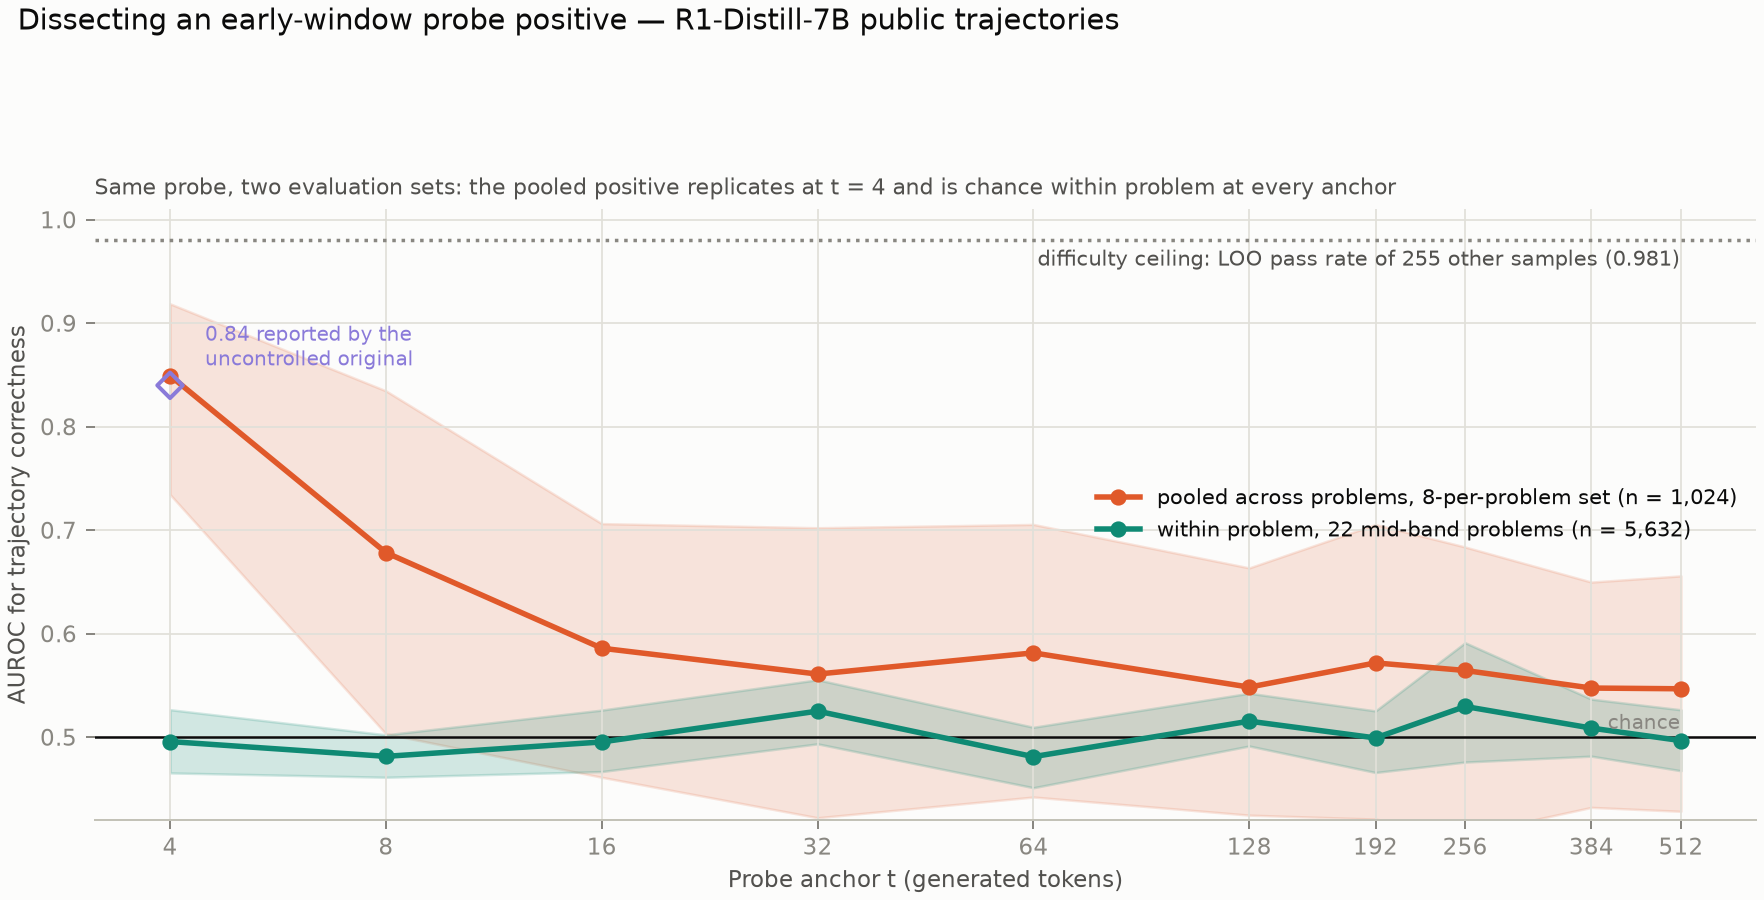
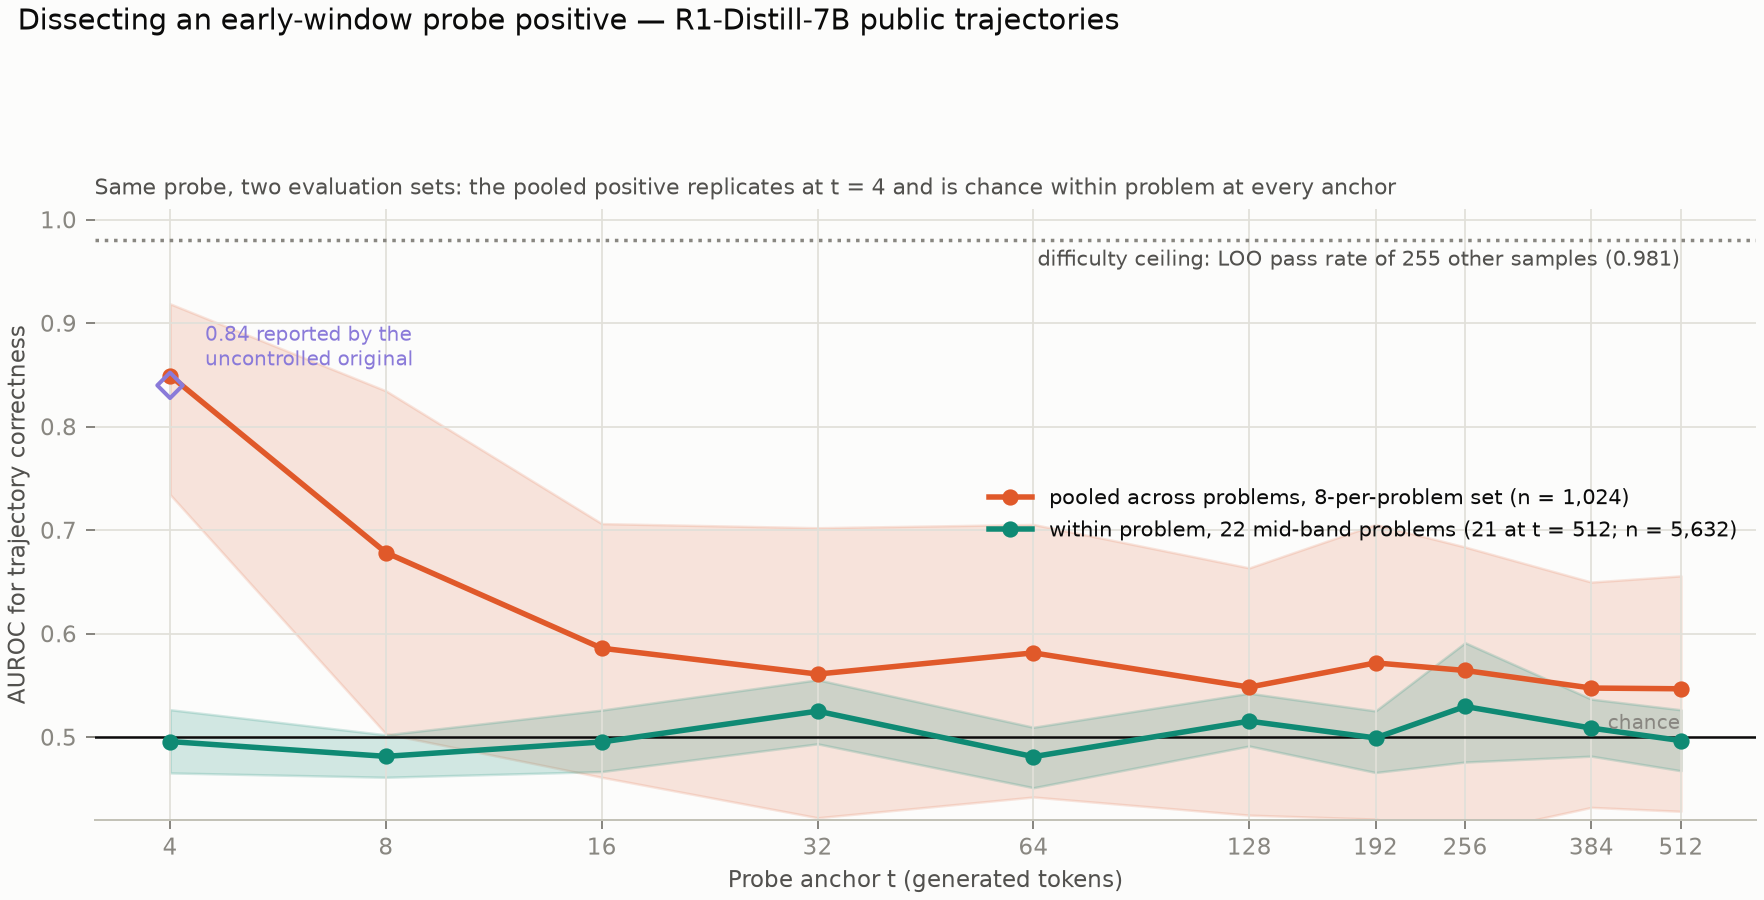
Sync third audit round: calibrated compression claim, pre-registered/post-hoc separation, completed trace-blind renaming, weighted-mean CI scoping, t=512 attrition disclosure, conditioned conservativeness claims, corrected matched-compute count in related work, refreshed claims table and docstring

Changed region(s): [[0.5612, 0.5289, 0.9977, 0.6222]]

diff --git a/paper/sections/results_prediction.tex b/paper/sections/results_prediction.tex
@@ -32,8 +32,9 @@ remained below its power gate (four test-split interior events) and was
 not fit. A post-hoc sweep of the forecast point over
 $t \in \{128, 256, 1{,}024, 2{,}048\}$ --- labeled post-hoc in the
 amendment --- found 8 of 10 point estimates negative and every CI
-straddling zero (Figure~\ref{fig:sweep}): the absence of detected gain is
-not an artifact of the chosen window. These are absences of detected gain,
+straddling zero (Figure~\ref{fig:sweep}): no alternative window rescues
+the signals, though these post-hoc intervals are individually
+underpowered. These are absences of detected gain,
 not demonstrations of equivalence --- the primary CI's upper bound
 ($+0.167$) does not exclude moderate effects, and no equivalence margin
 was pre-registered anywhere; what tighter intervals can support is an
@@ -114,7 +115,7 @@ pass rate of the problem's \emph{other} attempts, for 92\% of problems a
 single binary observation, reading neither the trace nor the question ---
 achieves AUROC $0.873$ $[0.870, 0.876]$
 (problem-clustered bootstrap; estimator frozen before evaluation, and
-conservative by construction since dataset curation truncates the
+likely conservative, since dataset curation truncates the
 difficulty range). That places a predictor that never reads the trace
 squarely inside the $0.79$--$0.95$ range that internal-state probe papers report
 \citep{zhang2025knowright, yuan2026diagnostic, sun2026trajectories,
@@ -125,7 +126,8 @@ question-text features but never probes the reasoning window). Nor is the ceilin
 artifact: on 16{,}384 public GPQA-diamond \citep{rein2023gpqa} samples (64 questions $\times$
 256 attempts, Llama-3.3-70B \citep{singhi2025solveverify}), the same
 estimator reaches $0.917$ $[0.875, 0.938]$ --- despite a four-way
-multiple-choice guessing floor that attenuates, never inflates, it.
+multiple-choice guessing floor that, under independent uniform guessing,
+attenuates rather than inflates it.
 
 \begin{figure}[t]\centering
 \includegraphics[width=.9\linewidth]{difficulty_ceiling_openr1}
@@ -157,10 +159,12 @@ pre-registered failure-count weighting (Appendix~\ref{app:extra}) ---
 sits at $0.496$ $[0.466, 0.527]$ under the pre-registered
 failure-count weighting and $0.515$ $[0.481, 0.562]$ under exact
 discordant-pair weighting --- chance under both --- and remains at chance
-at every one of ten anchors from $t = 4$ to $512$
-(Figure~\ref{fig:dissect}); the upper confidence limits bound any
-within-attempt AUROC signal at $t = 4$ by $0.527$ (failure-weighted) and
-$0.562$ (pair-weighted). The pooled positive is therefore predominantly
+at every one of ten anchors from $t = 4$ to $512$ (length attrition
+leaves 21 of the 22 problems with both outcome classes at $t = 512$;
+Figure~\ref{fig:dissect}); the upper confidence limits cap the
+failure-weighted and pair-weighted \emph{mean} within-problem AUROC at
+$t = 4$ at $0.527$ and $0.562$ --- bounds on these weighted-mean
+estimands, not on any single problem. The pooled positive is therefore predominantly
 --- and possibly entirely --- between-problem information, far below the
 dump's full leave-one-out difficulty ceiling of $0.981$ (pass rate of the
 255 other attempts per problem). Moreover, with sample composition held fixed, the pooled AUROC

diff --git a/paper/sections/intro.tex b/paper/sections/intro.tex
@@ -51,24 +51,27 @@ rules were frozen contributed zero new cases
 \item \textbf{Restart dose--response separates failure modes.} One model's
 unsolved problems dissolve as budget grows ($0\%\to79\%$,
 compute-starved); the other's do not budge (capability-limited).
-\item \textbf{Accumulated reasoning is compute compression.} At matched
-total compute the model's own prefix beats restarting wherever the
-comparison is exactly matched (9/9, with 2 wins and 2 ties on boundary
-proxies), yet a larger restart budget reaches the same threshold in 11/13
-and the prefix's own rate in 9/13: long reasoning reaches the same places
-cheaper, not new places.
+\item \textbf{Accumulated reasoning is predominantly compute
+compression.} At matched total compute the model's own prefix beats
+restarting wherever the comparison is exactly matched (9/9, with 2 wins
+and 2 ties on boundary proxies), yet a larger restart budget reaches the
+same threshold in 11/13 and the prefix's own rate in 9/13: within the
+measured budget range, long reasoning mostly buys the same successes
+cheaper rather than reaching otherwise unreachable ones.
 \item \textbf{Solvability is not binary.} A third of ambiguous
 intermediate states remain intermediate after eight attempts (success
 $0.3$--$0.6$), a band reproduced in the independent second half of
 attempts.
 \item \textbf{Early internal signals carry no detectable outcome
-information beyond difficulty.} A pre-registered, single-shot test on a held-out split finds
-$\Delta$AUROC $\approx 0$ at every forecast window
-(Section~\ref{sec:results-prediction}); on public data, a question-only
-signal reaches 0.873 on 192K DeepSeek-R1 generations --- inside the
-published probe range --- and the closest published early-window positive
-replicates at $t{=}4$ (pooled 0.849) while sitting exactly at chance
-(0.496) within problem, at every anchor.
+information beyond difficulty.} A pre-registered, single-shot test on a
+held-out split finds no detectable gain at the frozen forecast point, and
+a labeled post-hoc sweep finds none at any window from 128 to 2,048
+tokens (Section~\ref{sec:results-prediction}); on public data, a
+trace-blind difficulty proxy reaches 0.873 on 192K DeepSeek-R1
+generations --- inside the published probe range --- and the closest
+published early-window positive replicates at $t{=}4$ (pooled 0.849)
+while statistically indistinguishable from chance (0.496) within problem
+at every anchor.
 \end{itemize}
 
 The claims are scoped deliberately. We study two small open-weight models

diff --git a/paper/main.tex b/paper/main.tex
@@ -51,16 +51,18 @@ curves cleanly separate failure modes --- one model is compute-starved
 continuing the model's own prefix beats restarting (9 of 9 late-crossing
 cells; 2 wins and 2 ties on four boundary proxies), yet an 8{,}192-token
 restart reaches the same threshold in 11/13 and the prefix's own success
-rate in 9/13 --- accumulated reasoning acts as \emph{compute
-compression}, not expanded reachability; (iv) roughly a third of ambiguous
+rate in 9/13 --- predominantly consistent with accumulated reasoning
+acting as \emph{compute compression} rather than expanded reachability,
+within the measured budget range; (iv) roughly a third of ambiguous
 intermediate states remain intermediate after eight attempts (success
 rates 0.3--0.6), a band the independent second half of attempts
 reproduces; and (v) in a pre-registered, single-shot evaluation on
 a held-out test split, early-window internal signals (entropy, successive
 divergences, hidden-state geometry) add no detectable outcome information
-beyond a problem-difficulty baseline, at every forecast point from 128 to
-2,048 tokens --- a control that the growing literature of probe-based
-positives lacks. Two generation-free analyses of public corpora show the
+beyond a problem-difficulty baseline --- with a labeled post-hoc sweep
+finding no alternative forecast point from 128 to 2,048 tokens whose
+interval excludes zero --- a control that the growing literature of
+probe-based positives lacks. Two generation-free analyses of public corpora show the
 control bites in that literature's own regime: on 192K DeepSeek-R1
 generations a trace-blind difficulty proxy (the leave-one-out pass rate of
 the problem's other attempts) reaches AUROC 0.873, inside the published

diff --git a/paper/sections/results_regimes.tex b/paper/sections/results_regimes.tex
@@ -57,7 +57,7 @@ Individual curves (left) and share solved from scratch (right):
 Ministral-3 climbs $0\%\to79\%$; Gemma-4 stays flat.}
 \label{fig:dose}\end{figure}
 
-\subsection{Accumulated reasoning is compute compression}
+\subsection{Accumulated reasoning is predominantly compute compression}
 
 The 13 threshold-censored Ministral-3 expansion cells --- trajectories
 whose crossing was replicated only at the final anchor --- allow the
@@ -71,9 +71,13 @@ unknown --- restart curves are not uniformly monotone --- and on these
 proxies the prefix wins two and ties two. The largest measured restart
 reaches $\tauthr$ in 11 of 13 cells and matches the prefix's own pooled
 success rate in 9 of 13.
-Accumulated reasoning therefore acts as \emph{compression} --- it reaches
-the same solutions with fewer total tokens --- rather than as expanded
-reachability. This instantiates, empirically and per problem, the no-benefit branch of
+Accumulated reasoning is therefore predominantly consistent with
+\emph{compression} --- reaching the same success threshold with fewer
+total tokens --- rather than with expanded reachability, within the
+measured budget range: in the two cells where no measured restart reaches
+$\tauthr$ the question stays open at larger budgets, and binary
+correctness compares success rates, not solution content. This
+instantiates, empirically and per problem, the no-benefit branch of
 the dichotomy of \citet{wolf2026theory} --- absent self-reflection that
 reliably localizes early errors, conditioning on past attempts offers no
 asymptotic benefit over independent restarts (their analysis concerns

diff --git a/paper/sections/discussion.tex b/paper/sections/discussion.tex
@@ -6,14 +6,15 @@ prefix-limited cell is an existence proof --- but that it is rare enough
 in this regime that any account of reasoning built on frequent
 within-trace unlocks is measuring budget fit. The practical corollary of
 the compression finding is a reframing of restart policies: for a
-compute-starved model, abandoning a long prefix costs roughly a budget
-multiple, not access to the solution; for a capability-limited model,
+compute-starved model, abandoning a long prefix typically costs a budget
+multiple rather than access to the solution; for a capability-limited model,
 neither continuation nor restart helps. Which regime a deployment faces is
 measurable with a four-point restart curve.
 
 \paragraph{What the prediction results do and do not show.}
-Three layers --- a pre-registered null on our cohort, a question-only
-ceiling inside the published range on 192K public R1 generations, and a
+Three layers --- a pre-registered null on our cohort, a trace-blind
+difficulty ceiling inside the published range on 192K public R1
+generations, and a
 replicate-then-dissect analysis at 256 samples per problem --- support one
 conclusion: pooled probe AUROCs on reasoning outcomes are difficulty
 measurements until shown otherwise. This does not overturn any specific

diff --git a/paper/sections/related_work.tex b/paper/sections/related_work.tex
@@ -77,9 +77,10 @@ level and condition on \emph{completed} answers. Our instrument moves the
 comparison inside the trajectory --- the model's own truncated prefix
 against a fresh start at matched total tokens, per problem --- and yields a
 quantity the aggregate view cannot express: a prefix's value in fresh-token
-units. The answer, for our models, is compression rather than reachability
-(prefix wins 11/13 at equal compute; an 8{,}192-token restart catches up in
-11/13), which is empirical evidence for the no-benefit branch of the dichotomy of
+units. The answer, for our models, is predominantly compression rather than
+reachability (the prefix wins all nine exactly-matched comparisons, with
+two wins and two ties on boundary proxies; an 8{,}192-token restart
+reaches threshold in 11/13), which is empirical evidence for the no-benefit branch of the dichotomy of
 \citet{wolf2026theory}: when self-reflection fails to reliably localize
 early errors, conditioning on past attempts offers no asymptotic benefit
 over independent restarts. Our per-problem restart dose--response curves also

diff --git a/scripts/analyze_math128_probe.py b/scripts/analyze_math128_probe.py
@@ -6,7 +6,10 @@ Endpoints per anchor t: pooled AUROC on held-out problems (literature's
 metric, on the 8-per-problem pooled set) and within-problem AUROC on
 held-out mid-band problems (per-problem AUROC over its samples,
 failure-count-weighted), both from problem-disjoint 5-fold OOF predictions.
-Reference: the LOO pass-rate baseline (within-problem 0.5 by construction).
+Reference: the LOO pass-rate baseline (pooled high; its within-problem
+AUROC is mechanically 0, since within a problem every incorrect attempt's
+LOO score exceeds every correct one's --- 0.5 remains the neutral
+no-signal reference).
 
 Deviation recorded here: the stored streams support only the
 predictive-ambiguity/dynamics summary subset (entropy, surprisal, top-1);

diff --git a/paper/sections/appendix_extra.tex b/paper/sections/appendix_extra.tex
@@ -159,7 +159,8 @@ anchor. The rows column counts trajectories entering the problem-disjoint
 out-of-fold prediction; the \emph{pooled} metric is evaluated on the
 8-per-problem pooled subset ($n{=}1{,}024$ at $t{=}4$, shrinking with
 window attrition) and the \emph{within} metrics on the 22 mid-band
-problems ($n{=}5{,}632$; 2{,}178 failures), under the pre-registered
+problems ($n{=}5{,}632$; 2{,}178 failures; at $t{=}512$ attrition leaves
+21 problems with both outcome classes and 2{,}114 failures), under the pre-registered
 failure-count weighting and the exact discordant-pair weighting of
 Eq.~\eqref{eq:decomp}. References at $t{=}4$: full-dump LOO pass-rate
 pooled AUROC 0.981 (255 other attempts per problem); stream-summary probe

diff --git a/scripts/render_paper_figures.py b/scripts/render_paper_figures.py
@@ -387,7 +387,7 @@ def fig_dissection(report_path: Path, out: Path) -> None:
             label="pooled across problems, 8-per-problem set (n = 1,024)")
     ax.fill_between(ts, w_lo, w_hi, color="#0f8a74", alpha=0.18)
     ax.plot(ts, within, "-o", color="#0f8a74", lw=2.2, ms=5.5,
-            label="within problem, 22 mid-band problems (n = 5,632)")
+            label="within problem, 22 mid-band problems (21 at t = 512; n = 5,632)")
     ax.scatter([4], [0.84], marker="D", s=52, facecolor="none",
                edgecolor="#8a7ad9", linewidths=1.6, zorder=5)
     ax.annotate("0.84 reported by the\nuncontrolled original", (4, 0.84),

diff --git a/paper/claims_evidence.md b/paper/claims_evidence.md
@@ -1,17 +1,18 @@
 # Claims–evidence backbone (single source of truth for the paper)
 
 Every sentence in the paper that makes a claim must trace to a row here.
-Numbers are final (all runs complete as of 2026-08-28).
+Numbers are final (instrumented-cohort runs complete 2026-08-28; external
+public-data analyses and audit re-runs 2026-08-30 to 2026-09-01).
 
 | # | Claim (paper wording draft) | Evidence artifact | Key numbers | Figure |
 |---|---|---|---|---|
 | C1 | Fixed-budget truncation probes measure budget fit (T_F), not prefix value (T_V) | A2 budget-sensitivity run: probes/sensitivity/budget_4096/ | Ministral solves from 16-token prefixes at 4096 budget; dev crossings dissolve | budget_falsification.png |
 | C2 | Prefix-limited value is rare: 1/178 survives taxonomy (3 non-instant advantage crossings, 2 already restart-solvable in-grid; 4 instant-advantaged) | a5_labels_project/a5_full_cohort_labels.parquet + summary | 1 prefix-limited (gemma math_03159, T_V=896, adv 0.75); δ=0.25→7, δ=0.75→2; conservative agrees 178/178 | a5_project_regime_map.png |
 | C3 | Restart dose–response separates compute-starved vs capability-limited failure | restart_baseline_wave3/*/restart_panel.parquet | group shares Ministral 0→19→45→79% vs Gemma 10–12% flat; individual 4-attempt curves noisy: 8/42 vs 18/40 with any decrease (Ministral all single-attempt; Gemma 5 drops ≥0.5); threshold reversals 2 vs 1 | wave3_restart_dose_response.png |
-| C4 | Accumulated reasoning = compute compression, not reachability | terminal_stability_wave3 + labels (13 censored cells) | in-grid matched comparisons: prefix wins 9/9 (median +0.31); 4 boundary proxies (R(9216) unmeasured, bias direction unknown): 2 wins 2 ties; restart@8192 reaches τ 11/13, matches prefix rate 9/13 | wave3_matched_compute.png |
+| C4 | Accumulated reasoning is predominantly compute compression within the measured budget range (2/13 cells leave reachability open; binary correctness compares rates, not solution content) | terminal_stability_wave3 + labels (13 censored cells) | in-grid matched comparisons: prefix wins 9/9 (median +0.31); 4 boundary proxies (R(9216) unmeasured, bias direction unknown): 2 wins 2 ties; restart@8192 reaches τ 11/13, matches prefix rate 9/13 | wave3_matched_compute.png |
 | C5 | A persistent band of intermediate solvability | wave3_topup pooled labels (148 enlarged cells) | 55 low / 55 mid (3–5 of 8) / 38 high; independent second half (branches 4–7): 0-4 successes in 37/37/28/21/25 cells, 58% intermediate; labels trimmed not inflated (−6/+1) | wave3_topup_resolution.png |
 | C6 | Early internal signals add no detectable gain beyond difficulty (pre-registered; not equivalence — no margin set, primary CI up to +0.167) | confirmatory_early_signal/confirmatory_report.json | primary Δ+0.026 [−0.054,+0.167]; secondary Δ−0.090 [−0.213,+0.033]; level-free agrees | confirmatory_auroc.png |
-| C6b | The null is not a forecast-point artifact (post-hoc sweep) | early_signal_posthoc_sweep/t_*/ | 8/10 deltas negative across t∈{128..2048}; all CIs straddle 0 | early_signal_prefix_sweep.png |
+| C6b | No alternative forecast point rescues the signals (labeled post-hoc sweep; intervals individually underpowered) | early_signal_posthoc_sweep/t_*/ | 8/10 deltas negative across t∈{128..2048}; all CIs straddle 0 | early_signal_prefix_sweep.png |
 | C7 | Difficulty is the operative signal; strength model-dependent (descriptive only, small subgroups) | same report, per-model descriptives | baseline 0.88 (secondary); Gemma 1.0 both endpoints (n=16/11); Ministral 0.69–0.73 | (table) |
 | C8 | Timing prediction is not testable at this scale — events are too rare | horizon gate outputs | 21 interior events project-wide; 4 in test; gate: underpowered, not fit | (text) |
 | C9 | 4-attempt labels are systematically optimistic; replication cuts both ways | A1 outputs (dev+wave3) + A5.1 summaries | A1 wave3: 13/16 confirmed (Ministral), 0/1 (Gemma); pooling: −6/+1 | wave3_label_hardening.png (appendix) |
@@ -25,5 +26,5 @@ post-hoc sweep labeled as such in the amendment addendum.
 Paper figure budget (main text): regime map, dose-response, matched-compute,
 topup-resolution, confirmatory forest, prefix-sweep, budget-falsification.
 Appendix: swimmers, label-hardening, A1 details, level-free variants.
-| C11 | An early-window probe positive replicates and is dissected: all problem-identity, no detectable within-attempt signal, difficulty content decays by t=16-32 | artifacts/external/math128_distill7b/analysis_v2/math128_probe_report.json (frozen amendment 2026-08-31 + audit re-analysis) | t=4 pooled 0.849 [0.735,0.919]; within 0.496 [0.466,0.527] failure-w. / 0.515 [0.481,0.562] pair-w., chance under both at all 10 anchors; full-dump LOO ceiling 0.981; fidelity 0.906; pooled set n=1,024, within set n=5,632 | math128_probe_dissection.png |
+| C11 | An early-window probe positive replicates and is dissected: predominantly (possibly entirely) between-problem information, within-problem at chance at all anchors, difficulty content decays by t=16-32 | artifacts/external/math128_distill7b/analysis_v2/math128_probe_report.json (frozen amendment 2026-08-31 + audit re-analysis) | t=4 pooled 0.849 [0.735,0.919]; within 0.496 [0.466,0.527] failure-w. / 0.515 [0.481,0.562] pair-w., chance under both at all 10 anchors; full-dump LOO ceiling 0.981; fidelity 0.906; pooled set n=1,024, within set n=5,632; t=512 within uses 21/22 problems (length attrition) | math128_probe_dissection.png |
 | C12 | The difficulty ceiling is not a math artifact | artifacts/external/gpqa_ceiling/report.json (same frozen LOO estimator) | GPQA-diamond, Llama-3.3-70B (Singhi et al. dump): AUROC 0.917 [0.875, 0.938], 64 questions x 256 samples, pass rate 0.457; 4-way guessing floor attenuates the ceiling | (text; fig optional) |
